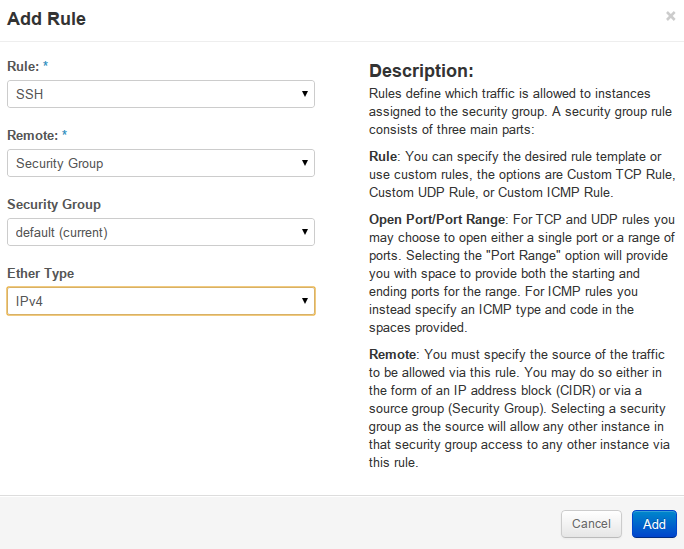
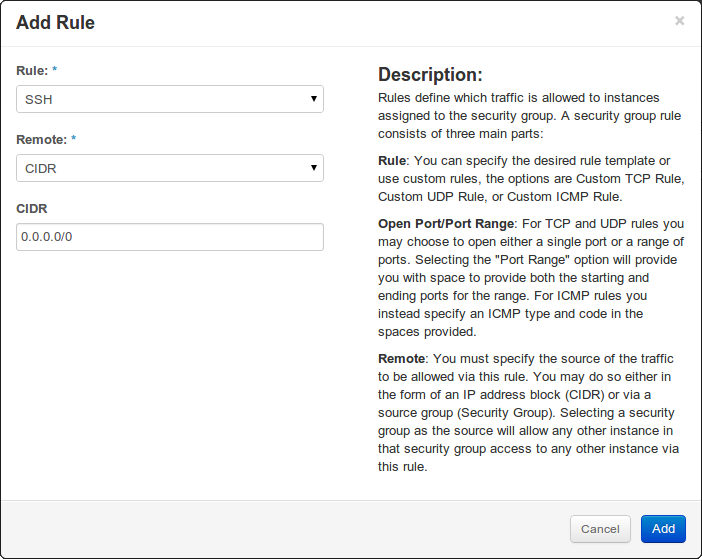
Updated steps on security group creation

diff --git a/pelicanconf.py b/pelicanconf.py
@@ -39,7 +39,7 @@ STATIC_PATHS = [
     'js',
     'css',
     'extra/robots.txt',
-    'CNAME'
+    'CNAME',
     ]
 
 # code blocks with line numbers

diff --git a/content/launch_an_instance.md b/content/launch_an_instance.md
@@ -68,6 +68,4 @@ If you wish to ssh into your instance you should tweak the "Security Groups" to 
 * Click on `Manage Rules` button under Actions section for the security group `default` located below the `Create/Delete Security Group` button on the right side of the dashboard.
 * Under the section `Manage Security Group Rules:default`, select button `Add Rule` on the top right corner of the dashboard.
         <img src="img/Add_SSH_Rule.png" height="700" width="556">
-* As shown in the image below, select ( `Rule` &rarr; `SSH`, `Reomte` &rarr; `Security Group` , `Security Group` &rarr; `default`, `Ether Type` &rarr; `IPv4`).
-        <img src="img/Confirm_SSH_Rule.png" >
-
+* As shown in the image above, select ( `Rule` &rarr; `SSH`, `Remote` &rarr; `CIDR` , `CIDR` &rarr; `0.0.0.0/0`).
